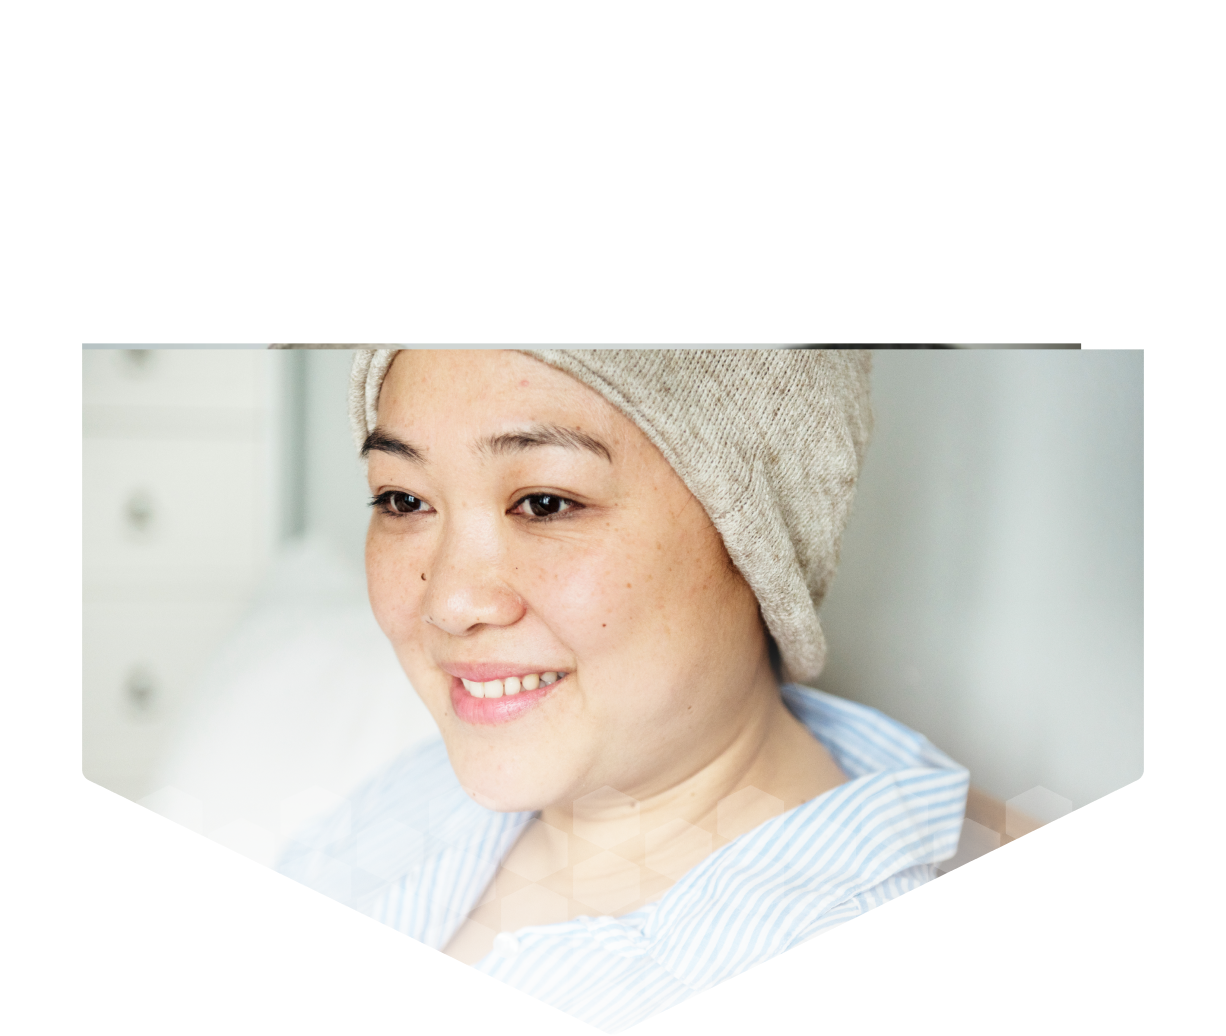
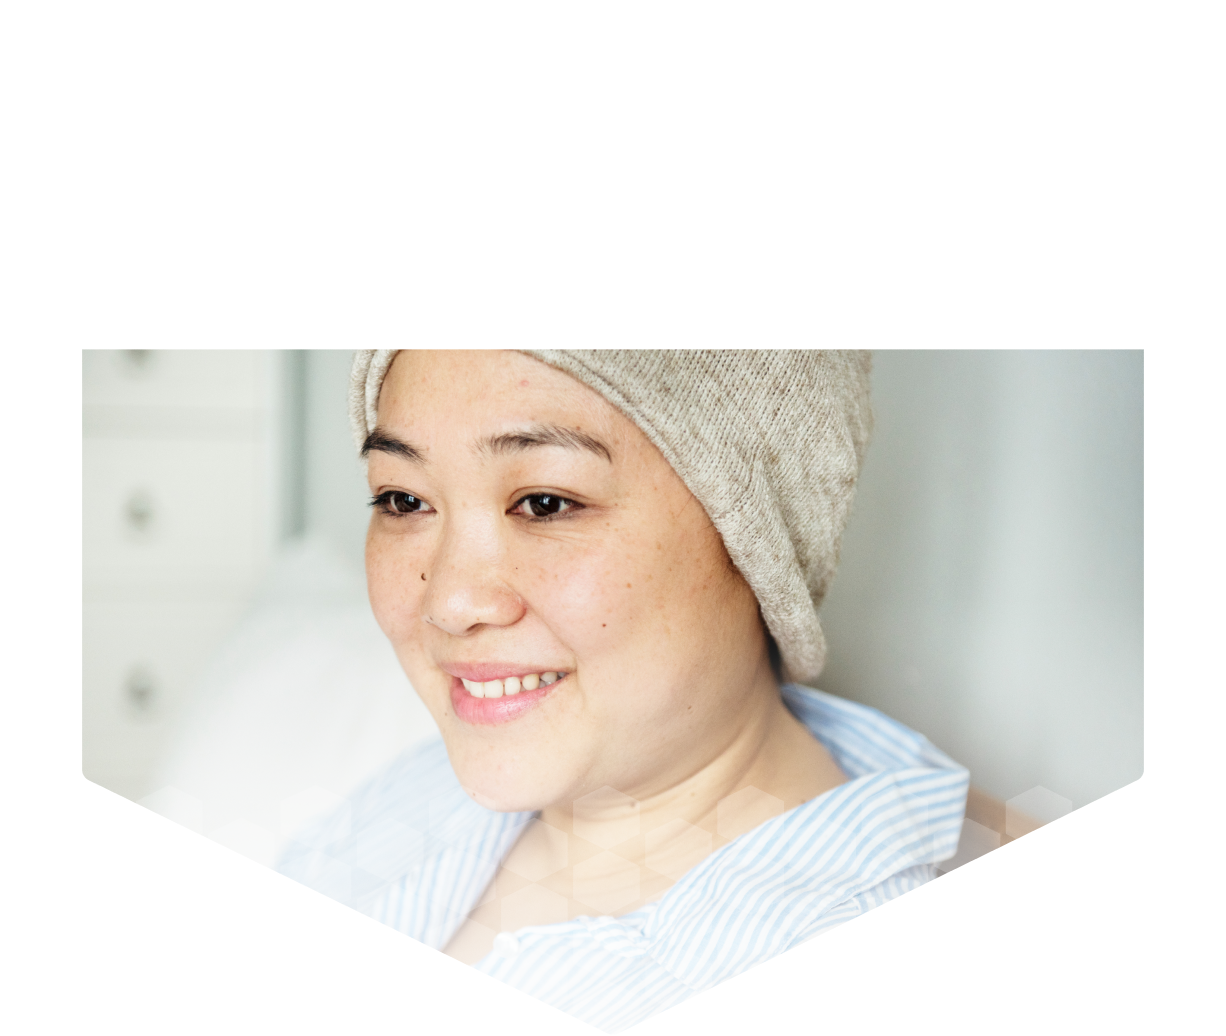
fix: change carousel pictures and layout

Changed region(s): [[0.062, 0.3089, 0.8679, 0.3398]]

diff --git a/client/src/components/header/Header.js b/client/src/components/header/Header.js
@@ -112,7 +112,7 @@ const Wrapper = styled.section`
       display: inherit;
       position: relative;
       top: -1080px;
-      left: 40px;
+      left: -10px;
     }
     .title {
       margin: 0 1.2rem;

diff --git a/client/src/App.css b/client/src/App.css
@@ -281,7 +281,7 @@ h4 {
 
   .hexagon {
     left: -600px;
-    top: -700px;
+    top: -650px;
     width: auto;
     position: relative;
     height: 820px;
